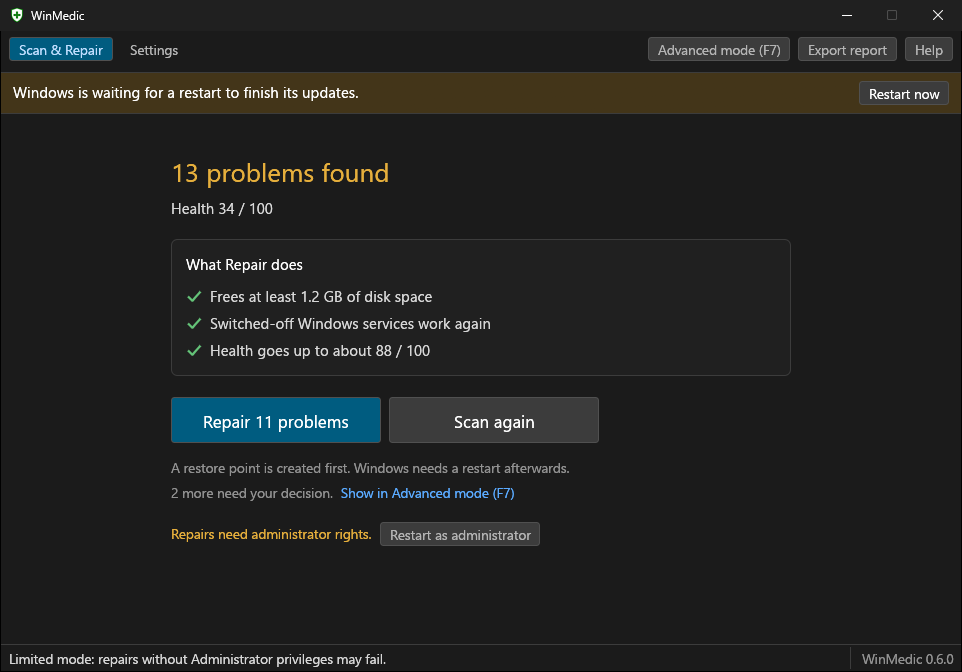
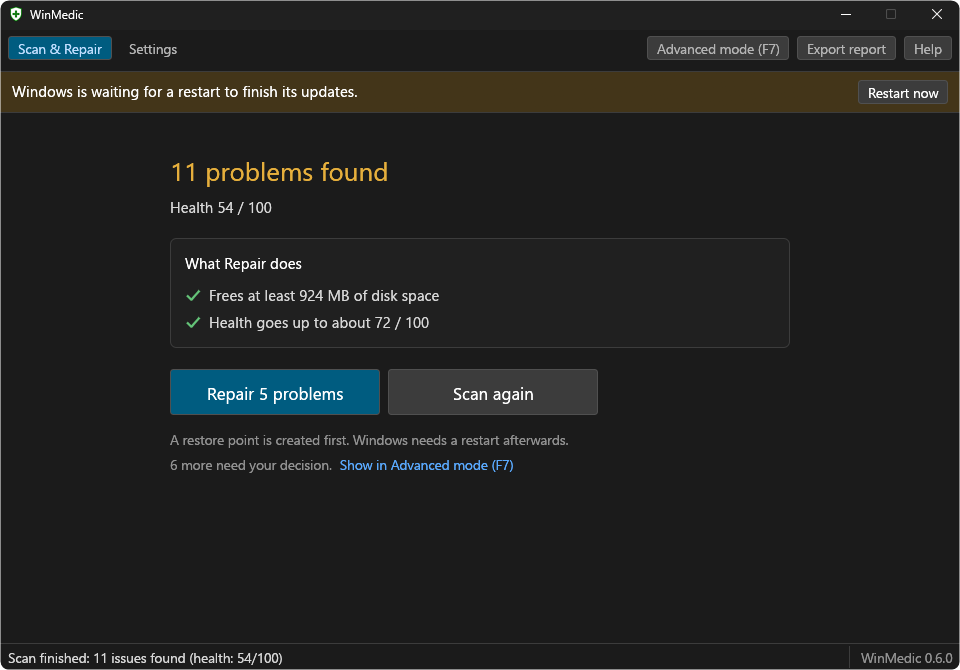
docs: show WinMedic as it looks now, started as Administrator
The screenshot from the first commit of this chain was taken unelevated
and showed "Repairs need administrator rights", a line this branch
removes. This one is this branch's release build after a fresh scan, as
Administrator, on Windows 11 (26200). Windows keeps an unelevated process
from printing an elevated window, so it is a screen capture of the window,
cut 1 px inside the border with the corners rounded off transparently,
because the desktop showed through both. No device names, paths or other
personal data on it.

diff --git a/README.md b/README.md
@@ -16,7 +16,7 @@ It is a single program. Nothing to install, nothing else to download. It only
 looks until you click **Repair**, and it creates a restore point first, so you
 can go back.
 
-![WinMedic after a scan: 13 problems found, what Repair does, and the Repair button](assets/screenshot.png)
+![WinMedic after a scan: the problems it found, what Repair does, and the Repair button](assets/screenshot.png)
 
 ## Download
 
